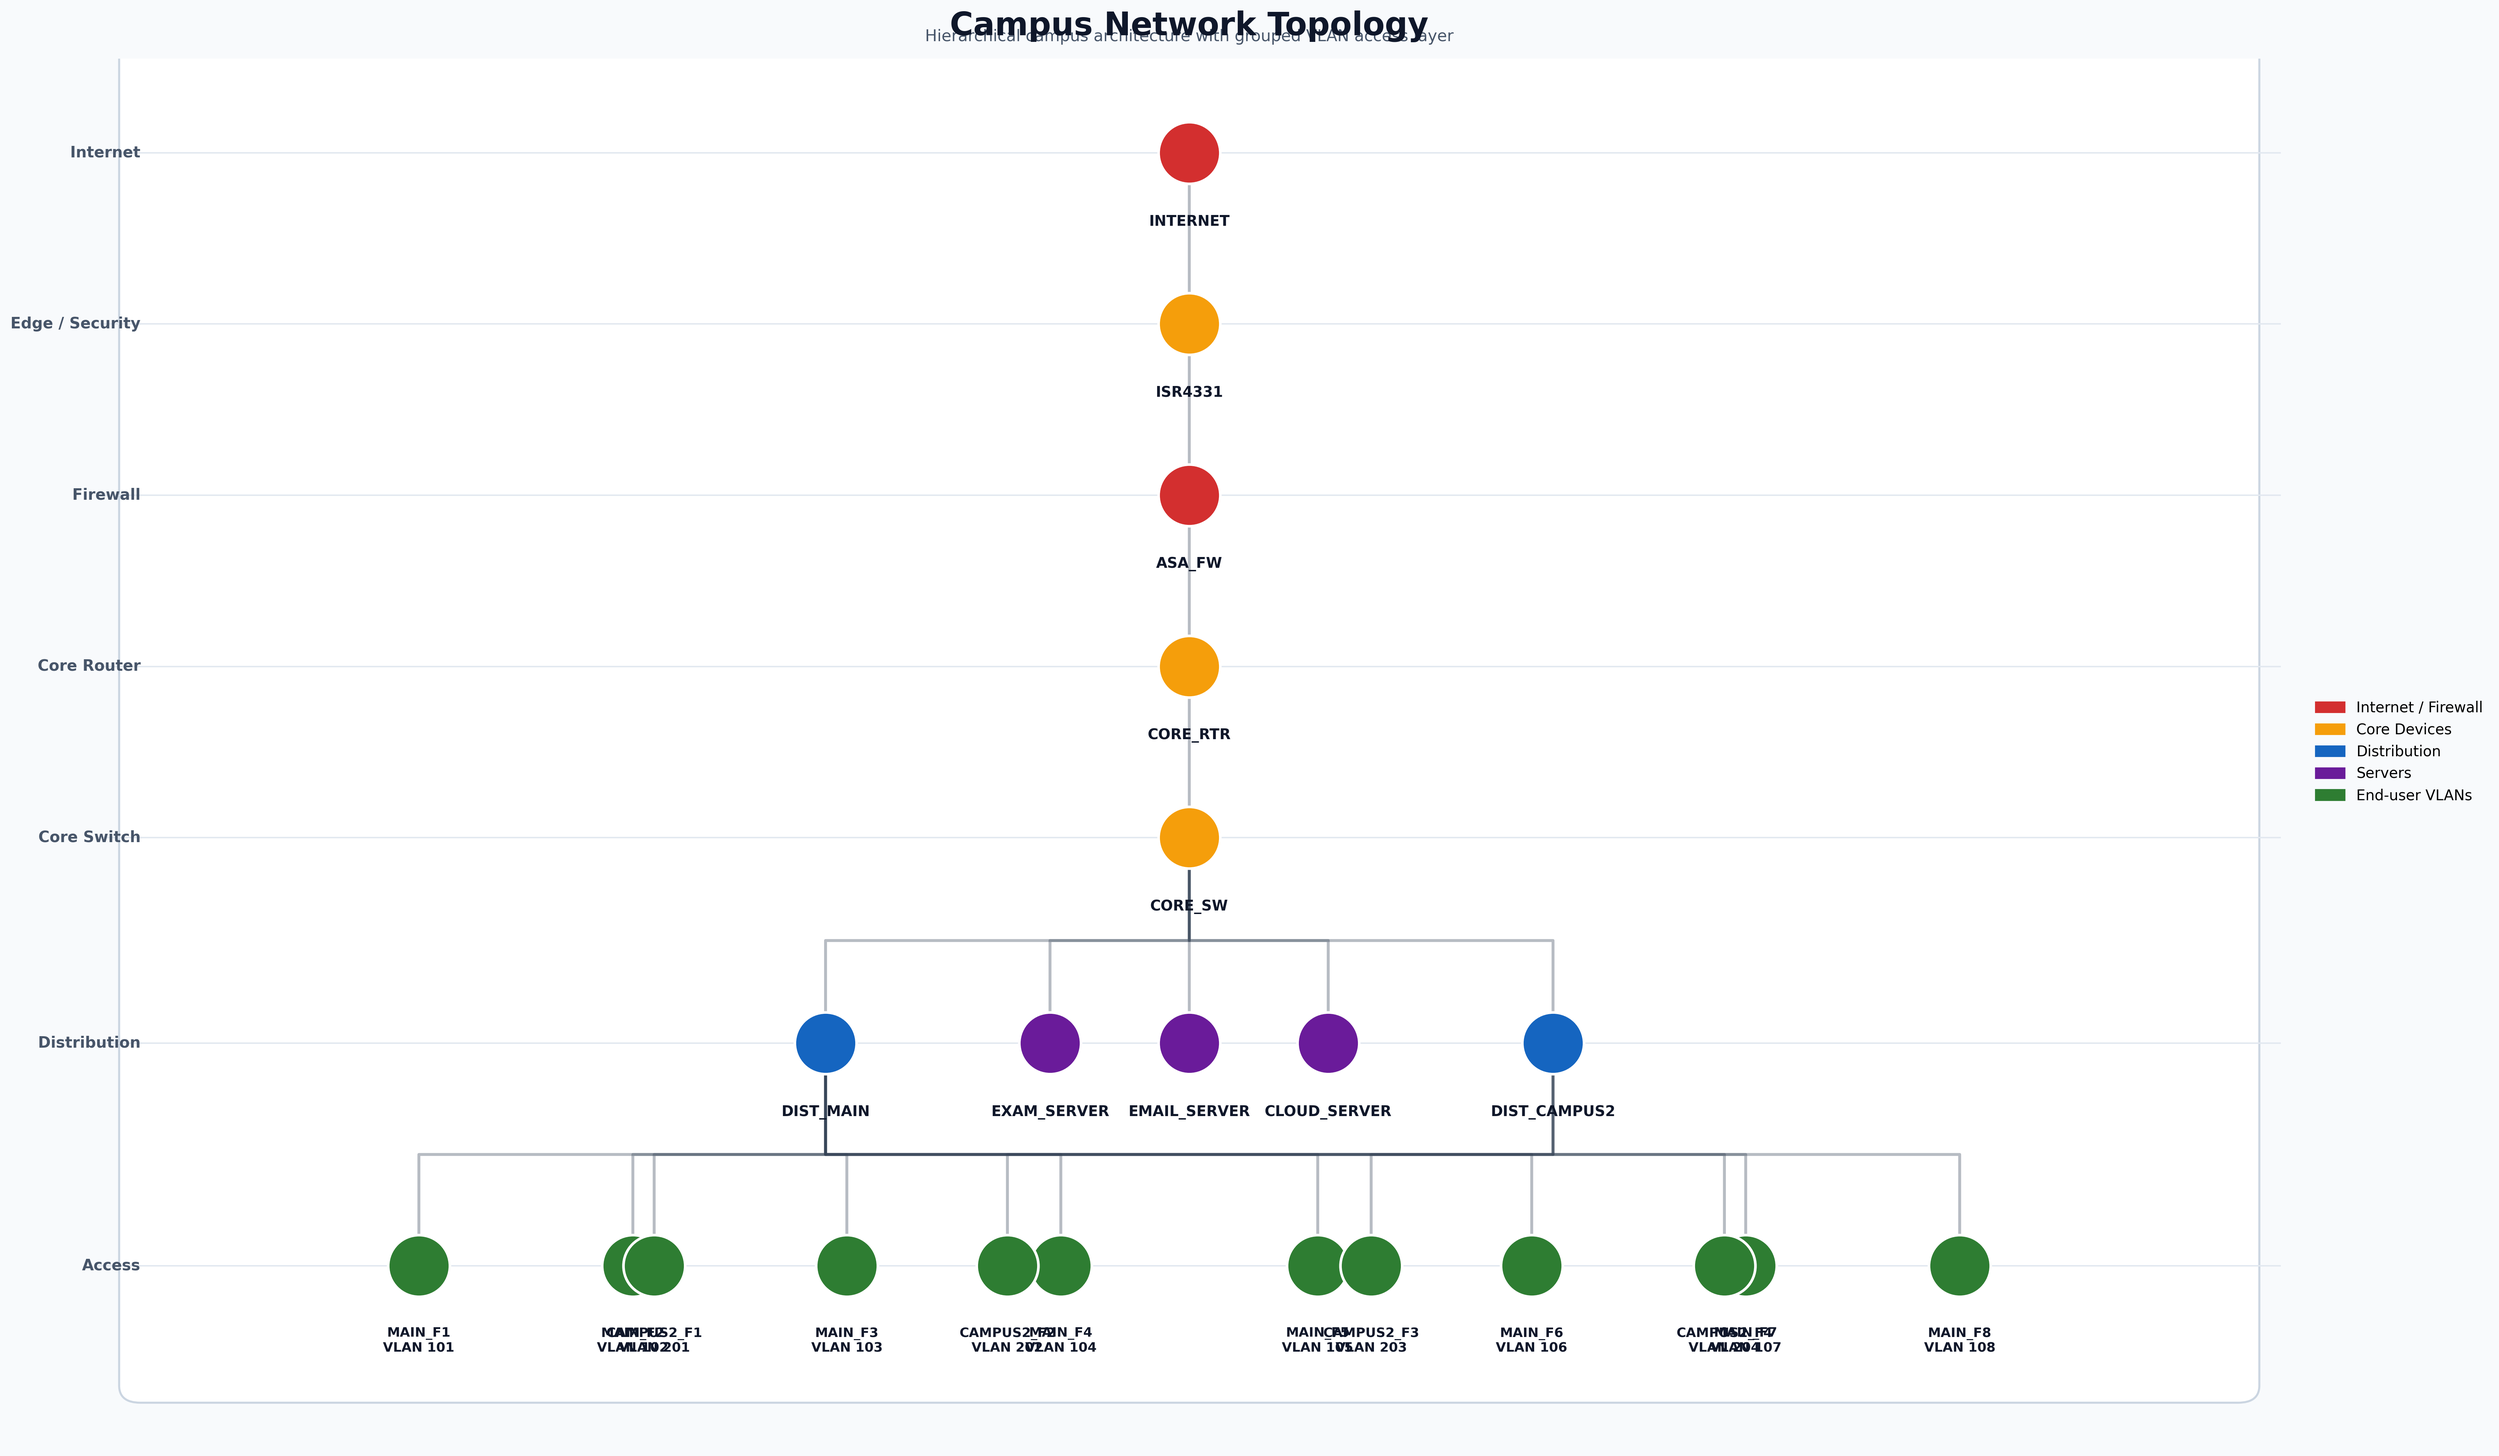
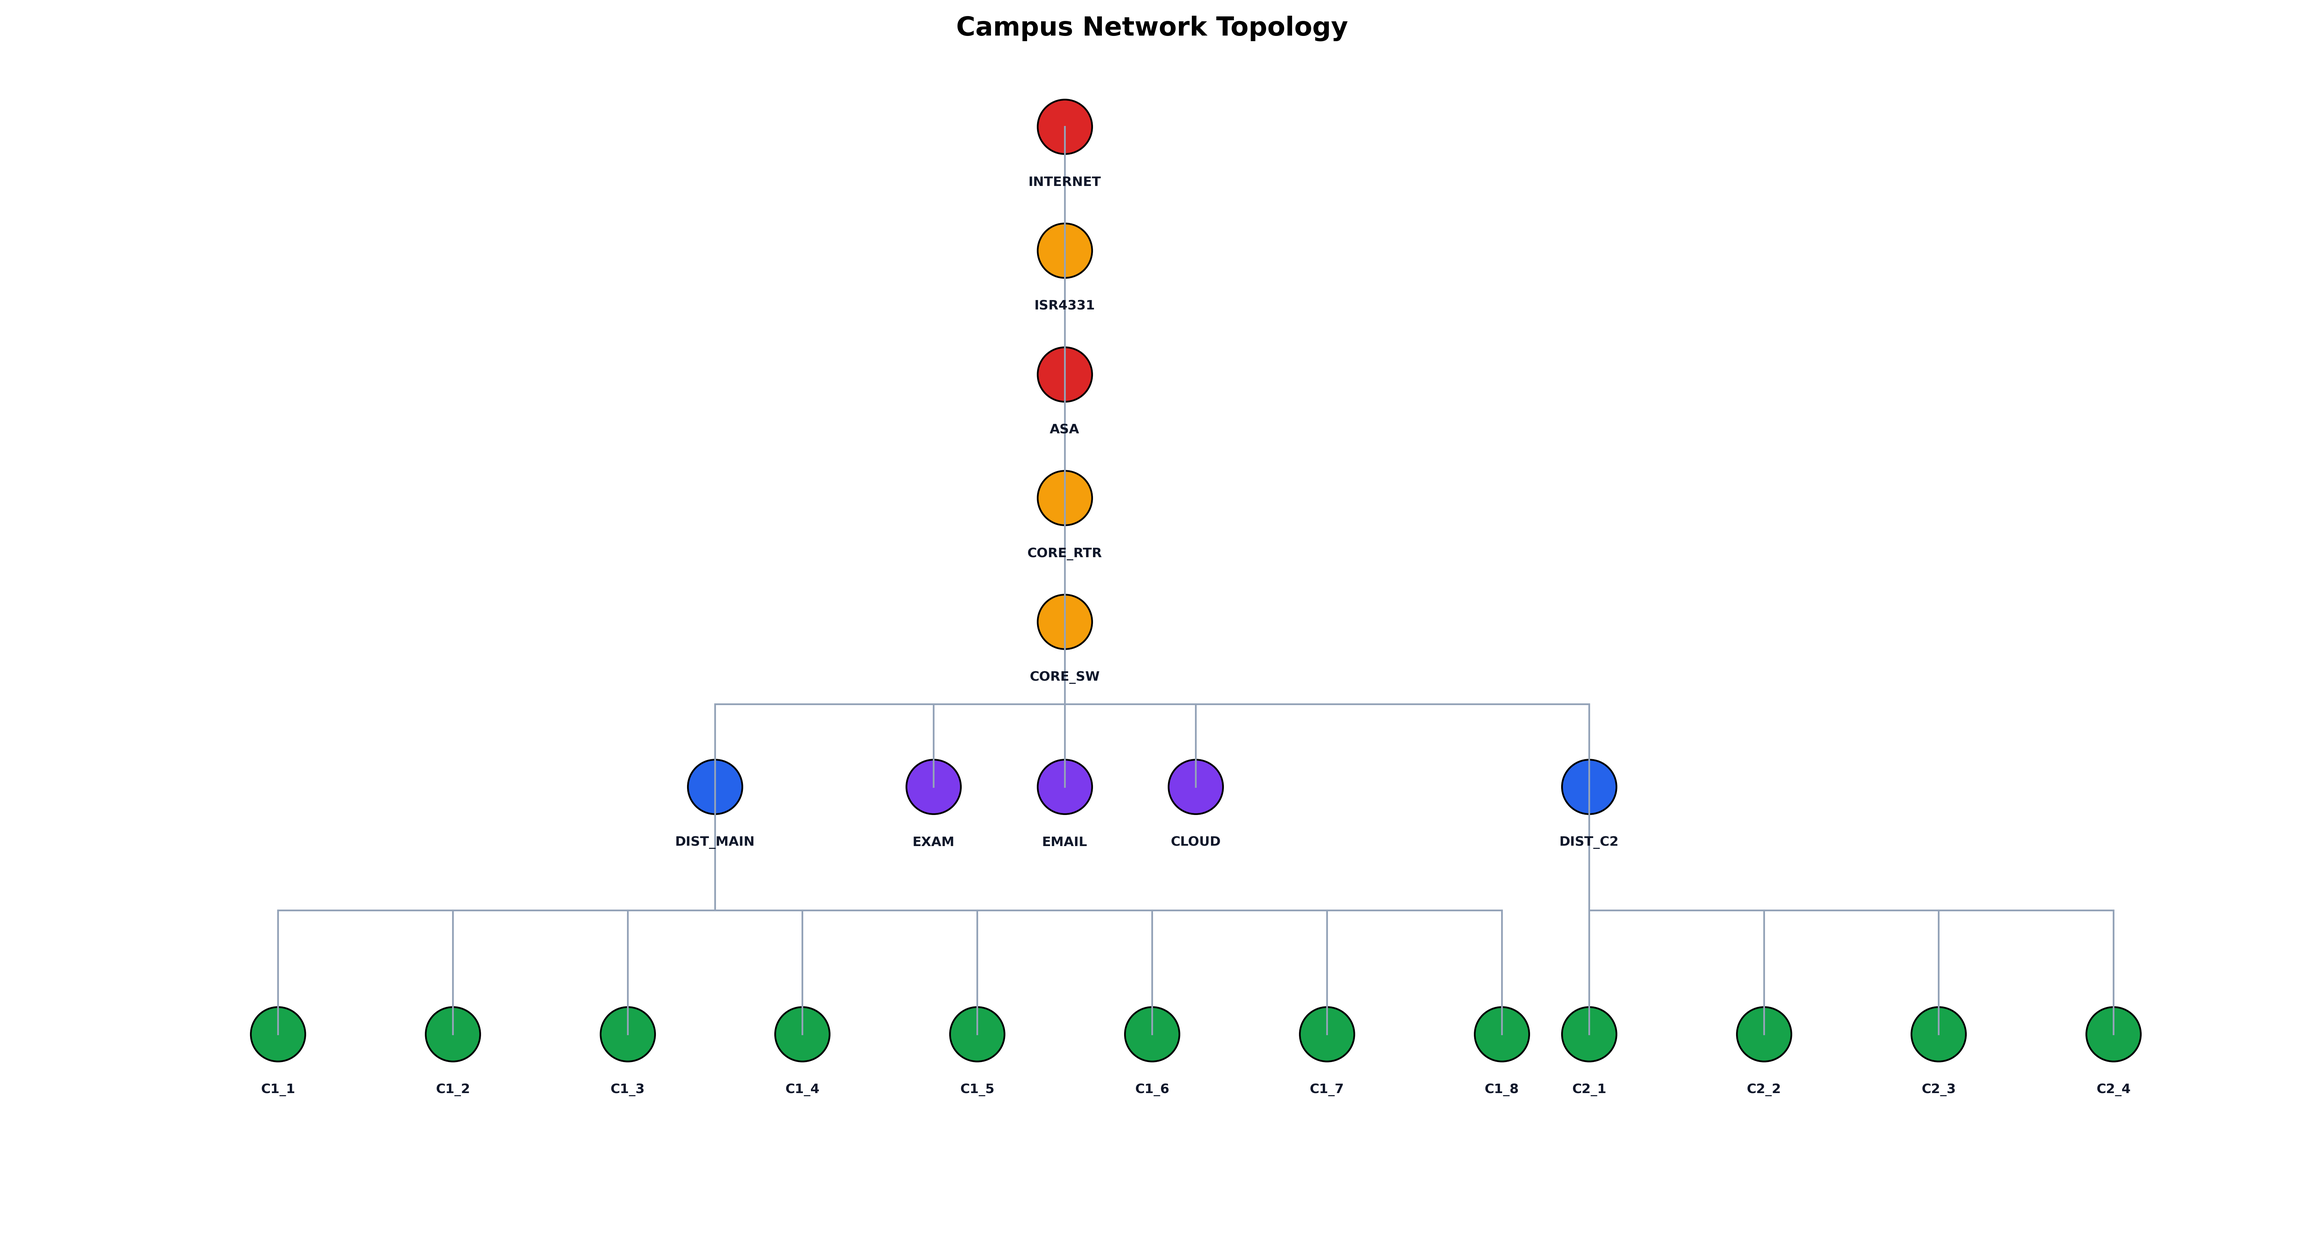
Solved bugs

diff --git a/campus_topology_visualizer.py b/campus_topology_visualizer.py
@@ -1,214 +1,150 @@
-"""Professional campus topology diagram renderer.
-
-Creates a clean, hierarchical architecture diagram with orthogonal links,
-consistent color coding, and grouped VLAN access nodes.
-"""
-
-from __future__ import annotations
-
 import os
-from typing import Dict, List, Tuple
-
 import matplotlib.pyplot as plt
-import matplotlib.patches as mpatches
-
 
 PALETTE = {
-    "bg": "#F8FAFC",
-    "panel": "#FFFFFF",
-    "panel_border": "#CBD5E1",
+    "bg": "#FFFFFF",
+    "edge": "#94A3B8",
     "text": "#0F172A",
-    "muted": "#475569",
-    "edge": "#334155",
-    "internet": "#D32F2F",
+    "internet": "#DC2626",
     "core": "#F59E0B",
-    "distribution": "#1565C0",
-    "server": "#6A1B9A",
-    "access": "#2E7D32",
-    "layer_line": "#E2E8F0",
+    "distribution": "#2563EB",
+    "server": "#7C3AED",
+    "access": "#16A34A",
 }
 
+def render_clean_topology(save_path="campus_topology.png", dpi=300):
 
-def _floor_label(campus: str, floor: int, vlan: int) -> str:
-    return f"{campus}_F{floor}\nVLAN {vlan}"
+    fig, ax = plt.subplots(figsize=(22, 12))
+    ax.set_facecolor(PALETTE["bg"])
+    fig.patch.set_facecolor(PALETTE["bg"])
 
+    # ---------------------------
+    # NODE POSITIONS (FIXED GRID)
+    # ---------------------------
 
-def _build_nodes(network) -> Dict[str, Dict[str, str]]:
-    nodes: Dict[str, Dict[str, str]] = {
-        "INTERNET": {"label": "INTERNET", "layer": 0, "group": "internet"},
-        "ISR4331": {"label": "ISR4331", "layer": 1, "group": "core"},
-        "ASA_FW": {"label": "ASA_FW", "layer": 2, "group": "internet"},
-        "CORE_RTR": {"label": "CORE_RTR", "layer": 3, "group": "core"},
-        "CORE_SW": {"label": "CORE_SW", "layer": 4, "group": "core"},
+    positions = {
+        "INTERNET": (0, 0),
+        "ISR4331": (0, -1.5),
+        "ASA": (0, -3),
+        "CORE_RTR": (0, -4.5),
+        "CORE_SW": (0, -6),
+
+        "DIST_MAIN": (-4, -8),
+        "DIST_C2": (6, -8),
+
+        "EXAM": (-1.5, -8),
+        "EMAIL": (0, -8),
+        "CLOUD": (1.5, -8),
     }
 
-    for campus_name, campus_cfg in network.CAMPUSES.items():
-        dist_name = f"DIST_{campus_name}"
-        nodes[dist_name] = {"label": dist_name, "layer": 5, "group": "distribution"}
+    # MAIN CAMPUS (8 evenly spaced)
+    main_x = [-9, -7, -5, -3, -1, 1, 3, 5]
+    for i in range(8):
+        positions[f"C1_{i+1}"] = (main_x[i], -11)
 
-        for idx, vlan in enumerate(campus_cfg["vlans"], start=1):
-            floor_name = f"{campus_name}_F{idx}"
-            nodes[floor_name] = {
-                "label": _floor_label(campus_name, idx, vlan),
-                "layer": 6,
-                "group": "access",
-            }
+    # CAMPUS 2 (RIGHT SIDE ONLY)
+    c2_x = [6, 8, 10, 12]
+    for i in range(4):
+        positions[f"C2_{i+1}"] = (c2_x[i], -11)
 
-    for server_name in network.SERVERS_INFO:
-        nodes[server_name] = {"label": server_name, "layer": 5, "group": "server"}
+    # ---------------------------
+    # ORTHOGONAL EDGE FUNCTION
+    # ---------------------------
 
-    return nodes
+    def draw_orthogonal(a, b):
+        x1, y1 = positions[a]
+        x2, y2 = positions[b]
 
+        mid_y = (y1 + y2) / 2
 
-def _orthogonal_path(x1: float, y1: float, x2: float, y2: float):
-    mid_y = (y1 + y2) / 2
-    return [(x1, y1), (x1, mid_y), (x2, mid_y), (x2, y2)]
+        ax.plot([x1, x1], [y1, mid_y], color=PALETTE["edge"], lw=1.2)
+        ax.plot([x1, x2], [mid_y, mid_y], color=PALETTE["edge"], lw=1.2)
+        ax.plot([x2, x2], [mid_y, y2], color=PALETTE["edge"], lw=1.2)
 
+    # ---------------------------
+    # EDGES (NO CROSSING)
+    # ---------------------------
 
-def render_campus_topology(network, save_path: str = "campus_topology.png", dpi: int = 300) -> str:
-    nodes = _build_nodes(network)
-
-    # Fixed, symmetrical layer positions with generous vertical spacing.
-    positions: Dict[str, Tuple[float, float]] = {
-        "INTERNET": (0.0, 0.0),
-        "ISR4331": (0.0, -2.0),
-        "ASA_FW": (0.0, -4.0),
-        "CORE_RTR": (0.0, -6.0),
-        "CORE_SW": (0.0, -8.0),
-    }
-
-    positions["DIST_MAIN"] = (-3.4, -10.4)
-    positions["DIST_CAMPUS2"] = (3.4, -10.4)
-    positions["EXAM_SERVER"] = (-1.3, -10.4)
-    positions["EMAIL_SERVER"] = (0.0, -10.4)
-    positions["CLOUD_SERVER"] = (1.3, -10.4)
-
-    main_xs = [-7.2, -5.2, -3.2, -1.2, 1.2, 3.2, 5.2, 7.2]
-    campus2_xs = [-5.0, -1.7, 1.7, 5.0]
-
-    for idx, x in enumerate(main_xs, start=1):
-        positions[f"MAIN_F{idx}"] = (x, -13.0)
-    for idx, x in enumerate(campus2_xs, start=1):
-        positions[f"CAMPUS2_F{idx}"] = (x, -13.0)
-
-    edges = [
+    core_chain = [
         ("INTERNET", "ISR4331"),
-        ("ISR4331", "ASA_FW"),
-        ("ASA_FW", "CORE_RTR"),
+        ("ISR4331", "ASA"),
+        ("ASA", "CORE_RTR"),
         ("CORE_RTR", "CORE_SW"),
-        ("CORE_SW", "DIST_MAIN"),
-        ("CORE_SW", "DIST_CAMPUS2"),
-        ("CORE_SW", "EXAM_SERVER"),
-        ("CORE_SW", "EMAIL_SERVER"),
-        ("CORE_SW", "CLOUD_SERVER"),
     ]
 
-    for idx in range(1, 9):
-        edges.append(("DIST_MAIN", f"MAIN_F{idx}"))
-    for idx in range(1, 5):
-        edges.append(("DIST_CAMPUS2", f"CAMPUS2_F{idx}"))
+    for a, b in core_chain:
+        draw_orthogonal(a, b)
 
-    os.makedirs(os.path.dirname(save_path) or ".", exist_ok=True)
-    fig, ax = plt.subplots(figsize=(24, 14))
-    fig.patch.set_facecolor(PALETTE["bg"])
-    ax.set_facecolor(PALETTE["bg"])
+    draw_orthogonal("CORE_SW", "DIST_MAIN")
+    draw_orthogonal("CORE_SW", "DIST_C2")
 
-    ax.add_patch(
-        mpatches.FancyBboxPatch(
-            (-9.6, -14.2), 19.2, 15.5,
-            boxstyle="round,pad=0.4,rounding_size=0.2",
-            facecolor=PALETTE["panel"],
-            edgecolor=PALETTE["panel_border"],
-            linewidth=1.4,
-            zorder=0,
-        )
-    )
+    draw_orthogonal("CORE_SW", "EXAM")
+    draw_orthogonal("CORE_SW", "EMAIL")
+    draw_orthogonal("CORE_SW", "CLOUD")
 
-    # Layer labels
-    layer_titles = {
-        0: "Internet",
-        1: "Edge / Security",
-        2: "Firewall",
-        3: "Core Router",
-        4: "Core Switch",
-        5: "Distribution",
-        6: "Access",
-    }
-    layer_y = {0: 0.0, 1: -2.0, 2: -4.0, 3: -6.0, 4: -8.0, 5: -10.4, 6: -13.0}
-    for layer, title in layer_titles.items():
-        ax.text(-9.8, layer_y[layer], title, ha="right", va="center", fontsize=10.5, fontweight="bold", color=PALETTE["muted"])
-        ax.axhline(layer_y[layer], color=PALETTE["layer_line"], lw=1.0, zorder=0)
+    for i in range(8):
+        draw_orthogonal("DIST_MAIN", f"C1_{i+1}")
 
-    # Orthogonal connectors, drawn behind nodes.
-    for src, dst in edges:
-        x1, y1 = positions[src]
-        x2, y2 = positions[dst]
-        path = _orthogonal_path(x1, y1, x2, y2)
-        ax.plot([p[0] for p in path], [p[1] for p in path], color=PALETTE["edge"], lw=2.0, alpha=0.35, zorder=1)
+    for i in range(4):
+        draw_orthogonal("DIST_C2", f"C2_{i+1}")
 
-    # Draw circular nodes only, with labels outside and below each node.
-    style_map = {
-        "internet": PALETTE["internet"],
-        "core": PALETTE["core"],
-        "distribution": PALETTE["distribution"],
-        "server": PALETTE["server"],
-        "access": PALETTE["access"],
-    }
+    # ---------------------------
+    # NODE DRAW
+    # ---------------------------
 
-    node_size = 1800
-    circle_radius = 0.52
-    label_offset = 0.72
-
-    for name, data in nodes.items():
+    def draw_node(name, group):
         x, y = positions[name]
+
+        color_map = {
+            "internet": PALETTE["internet"],
+            "core": PALETTE["core"],
+            "distribution": PALETTE["distribution"],
+            "server": PALETTE["server"],
+            "access": PALETTE["access"],
+        }
+
         ax.scatter(
-            [x],
-            [y],
-            s=node_size,
-            c=style_map[data["group"]],
-            marker="o",
-            edgecolors="white",
-            linewidths=1.8,
-            zorder=3,
+            x, y,
+            s=1400,
+            color=color_map[group],
+            edgecolors="black",
+            linewidths=1.2
         )
+
         ax.text(
-            x,
-            y - label_offset,
-            data["label"],
+            x, y - 0.6,
+            name,
             ha="center",
             va="top",
-            fontsize=10 if data["layer"] < 6 else 9,
-            fontweight="bold",
+            fontsize=9,
             color=PALETTE["text"],
-            zorder=4,
-            clip_on=False,
+            fontweight="bold"
         )
 
-    legend_items = [
-        mpatches.Patch(color=PALETTE["internet"], label="Internet / Firewall"),
-        mpatches.Patch(color=PALETTE["core"], label="Core Devices"),
-        mpatches.Patch(color=PALETTE["distribution"], label="Distribution"),
-        mpatches.Patch(color=PALETTE["server"], label="Servers"),
-        mpatches.Patch(color=PALETTE["access"], label="End-user VLANs"),
-    ]
-    ax.legend(handles=legend_items, loc="center left", bbox_to_anchor=(1.01, 0.5), frameon=False, fontsize=10)
+    # DRAW ALL
+    for n, g in [
+        ("INTERNET","internet"),("ISR4331","core"),("ASA","internet"),
+        ("CORE_RTR","core"),("CORE_SW","core"),
+        ("DIST_MAIN","distribution"),("DIST_C2","distribution"),
+        ("EXAM","server"),("EMAIL","server"),("CLOUD","server")
+    ]:
+        draw_node(n, g)
 
-    ax.text(
-        0.5,
-        1.01,
-        "Hierarchical campus architecture with grouped VLAN access layer",
-        transform=ax.transAxes,
-        ha="center",
-        va="bottom",
-        fontsize=11,
-        color=PALETTE["muted"],
-    )
-    ax.set_title("Campus Network Topology", fontsize=22, fontweight="bold", color=PALETTE["text"], pad=16)
-    ax.set_xlim(-10.2, 10.2)
-    ax.set_ylim(-15.1, 1.1)
+    for i in range(8):
+        draw_node(f"C1_{i+1}", "access")
+
+    for i in range(4):
+        draw_node(f"C2_{i+1}", "access")
+
+    ax.set_title("Campus Network Topology", fontsize=18, fontweight="bold")
+
+    ax.set_xlim(-12, 14)
+    ax.set_ylim(-13.5, 1)
+
     ax.axis("off")
-    fig.subplots_adjust(left=0.06, right=0.82, top=0.93, bottom=0.07)
+
     plt.tight_layout()
-    plt.savefig(save_path, dpi=dpi, bbox_inches="tight", facecolor=fig.get_facecolor())
-    plt.close(fig)
+    plt.savefig(save_path, dpi=dpi)
+    plt.close()
+
     return save_path

diff --git a/app.py b/app.py
@@ -27,7 +27,7 @@ from data_exporter import DataExporter
 from network_analyzer import NetworkAnalyzer
 from packet_collector import PacketRecord
 from report_generator import ReportGenerator
-from campus_topology_visualizer import render_campus_topology
+from campus_topology_visualizer import render_clean_topology
 from visualization_enhanced import EnhancedVisualizations
 
 
@@ -215,7 +215,7 @@ def run_complete_simulation(config_file: str = "config.yaml") -> Tuple[Dict[str,
     print("Generating Normal Mode Visualizations...")
     visualizer.plot_vlan_traffic(mode="normal")
     visualizer.plot_path_efficiency()
-    render_campus_topology(net_normal, save_path=os.path.join(output_dir, "campus_topology.png"), dpi=dpi)
+    render_clean_topology(save_path=os.path.join(output_dir, "campus_topology.png"), dpi=dpi)
 
     output_cfg = config.get("output", {})
     if any(
